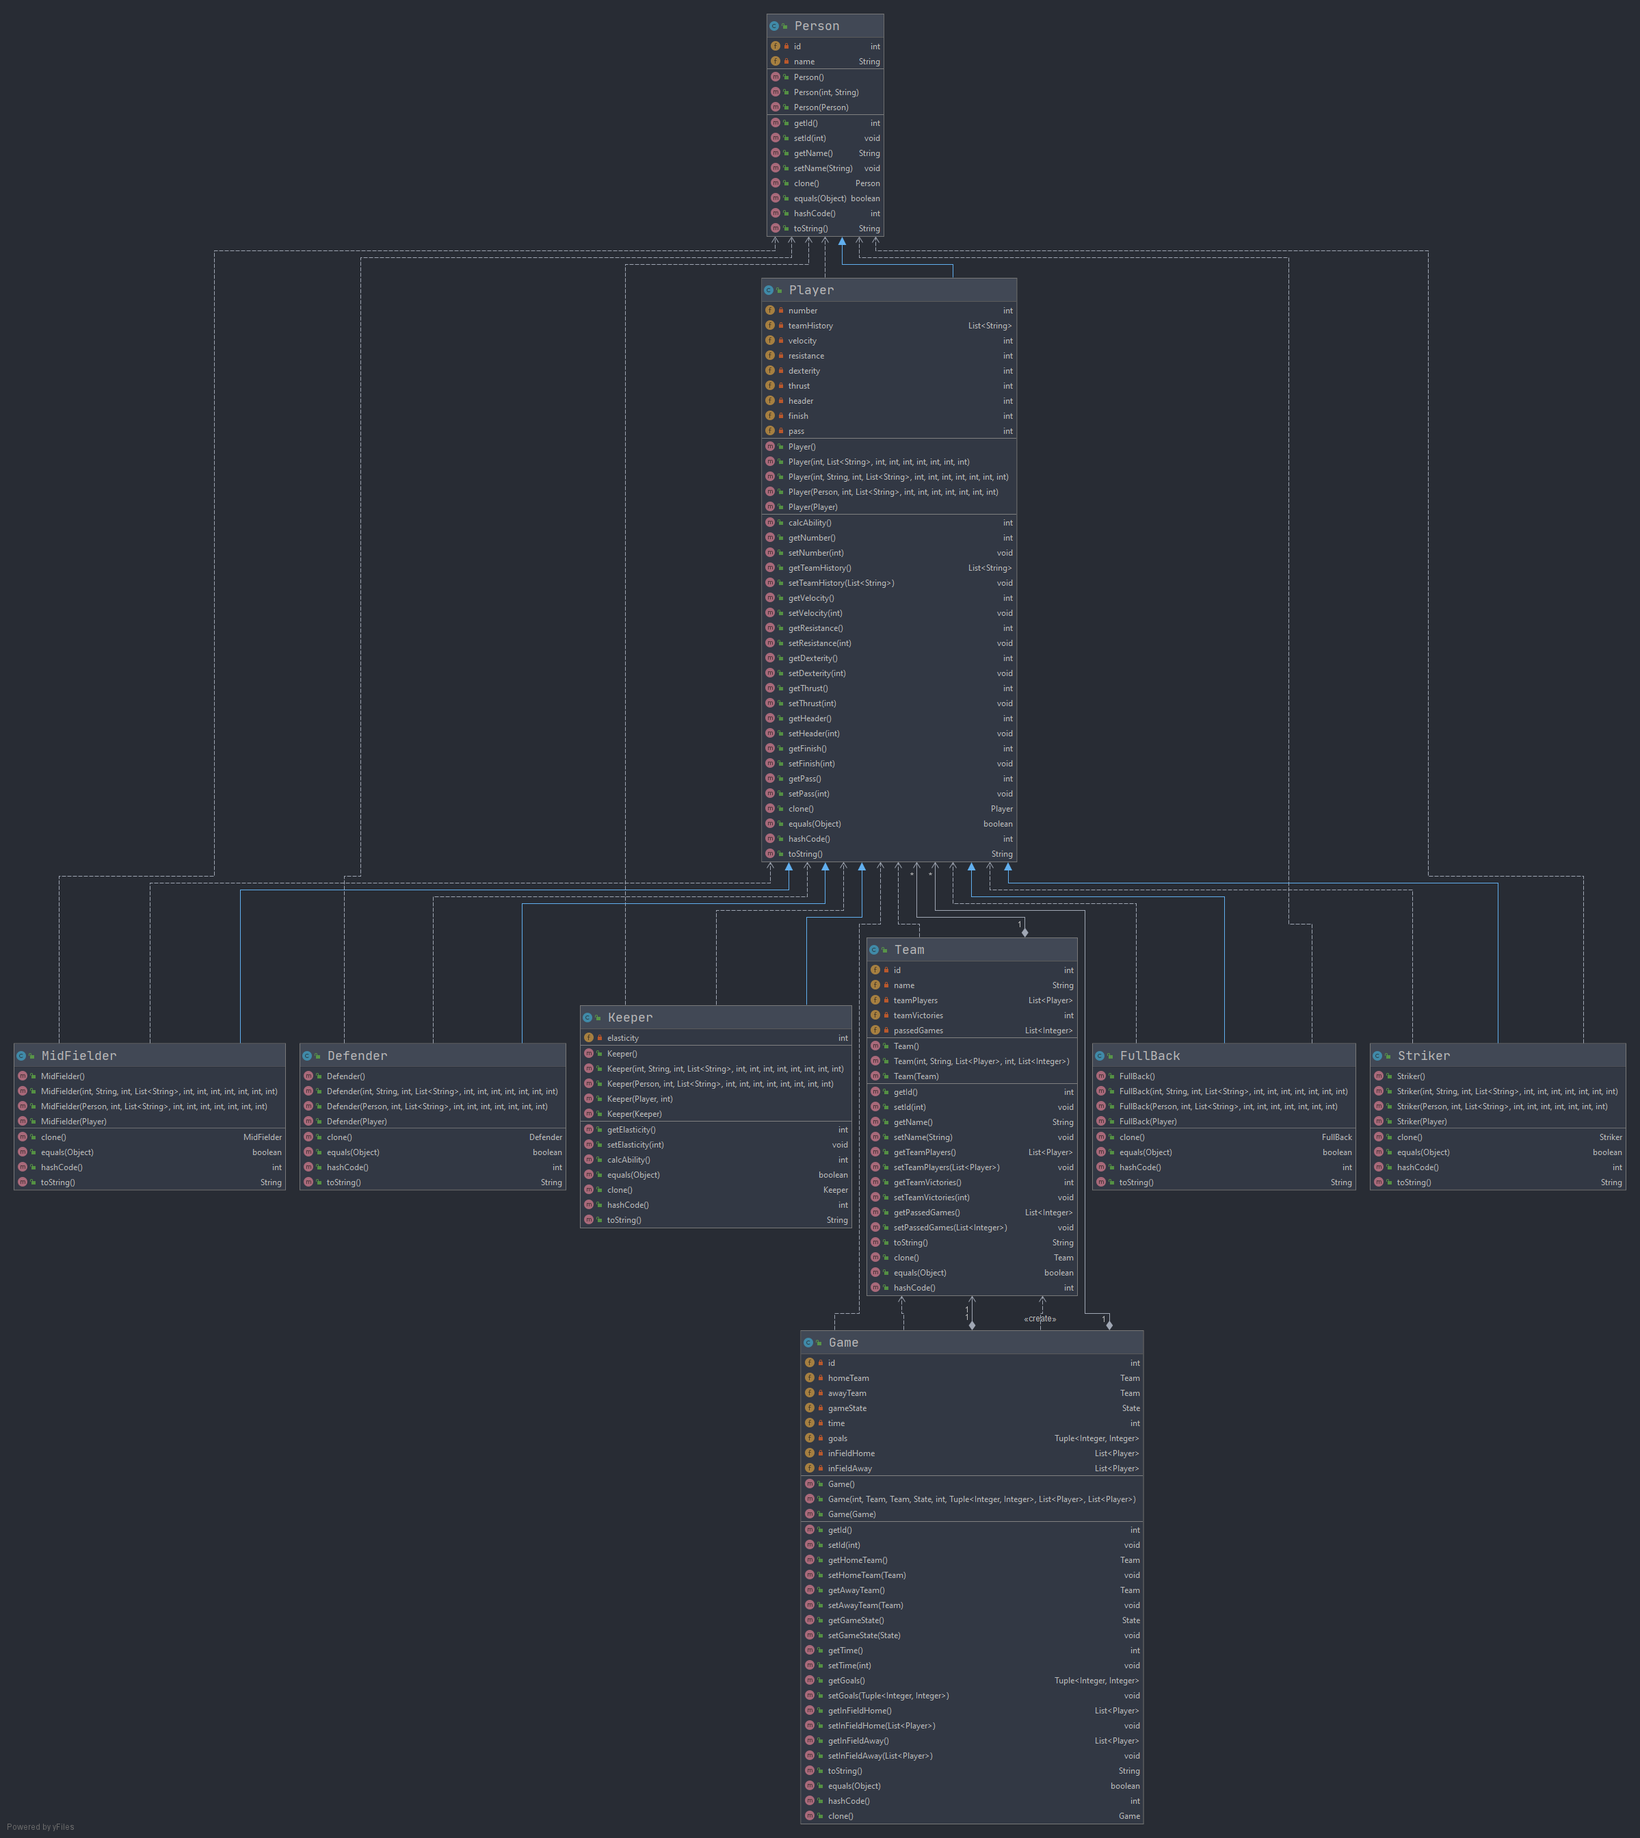
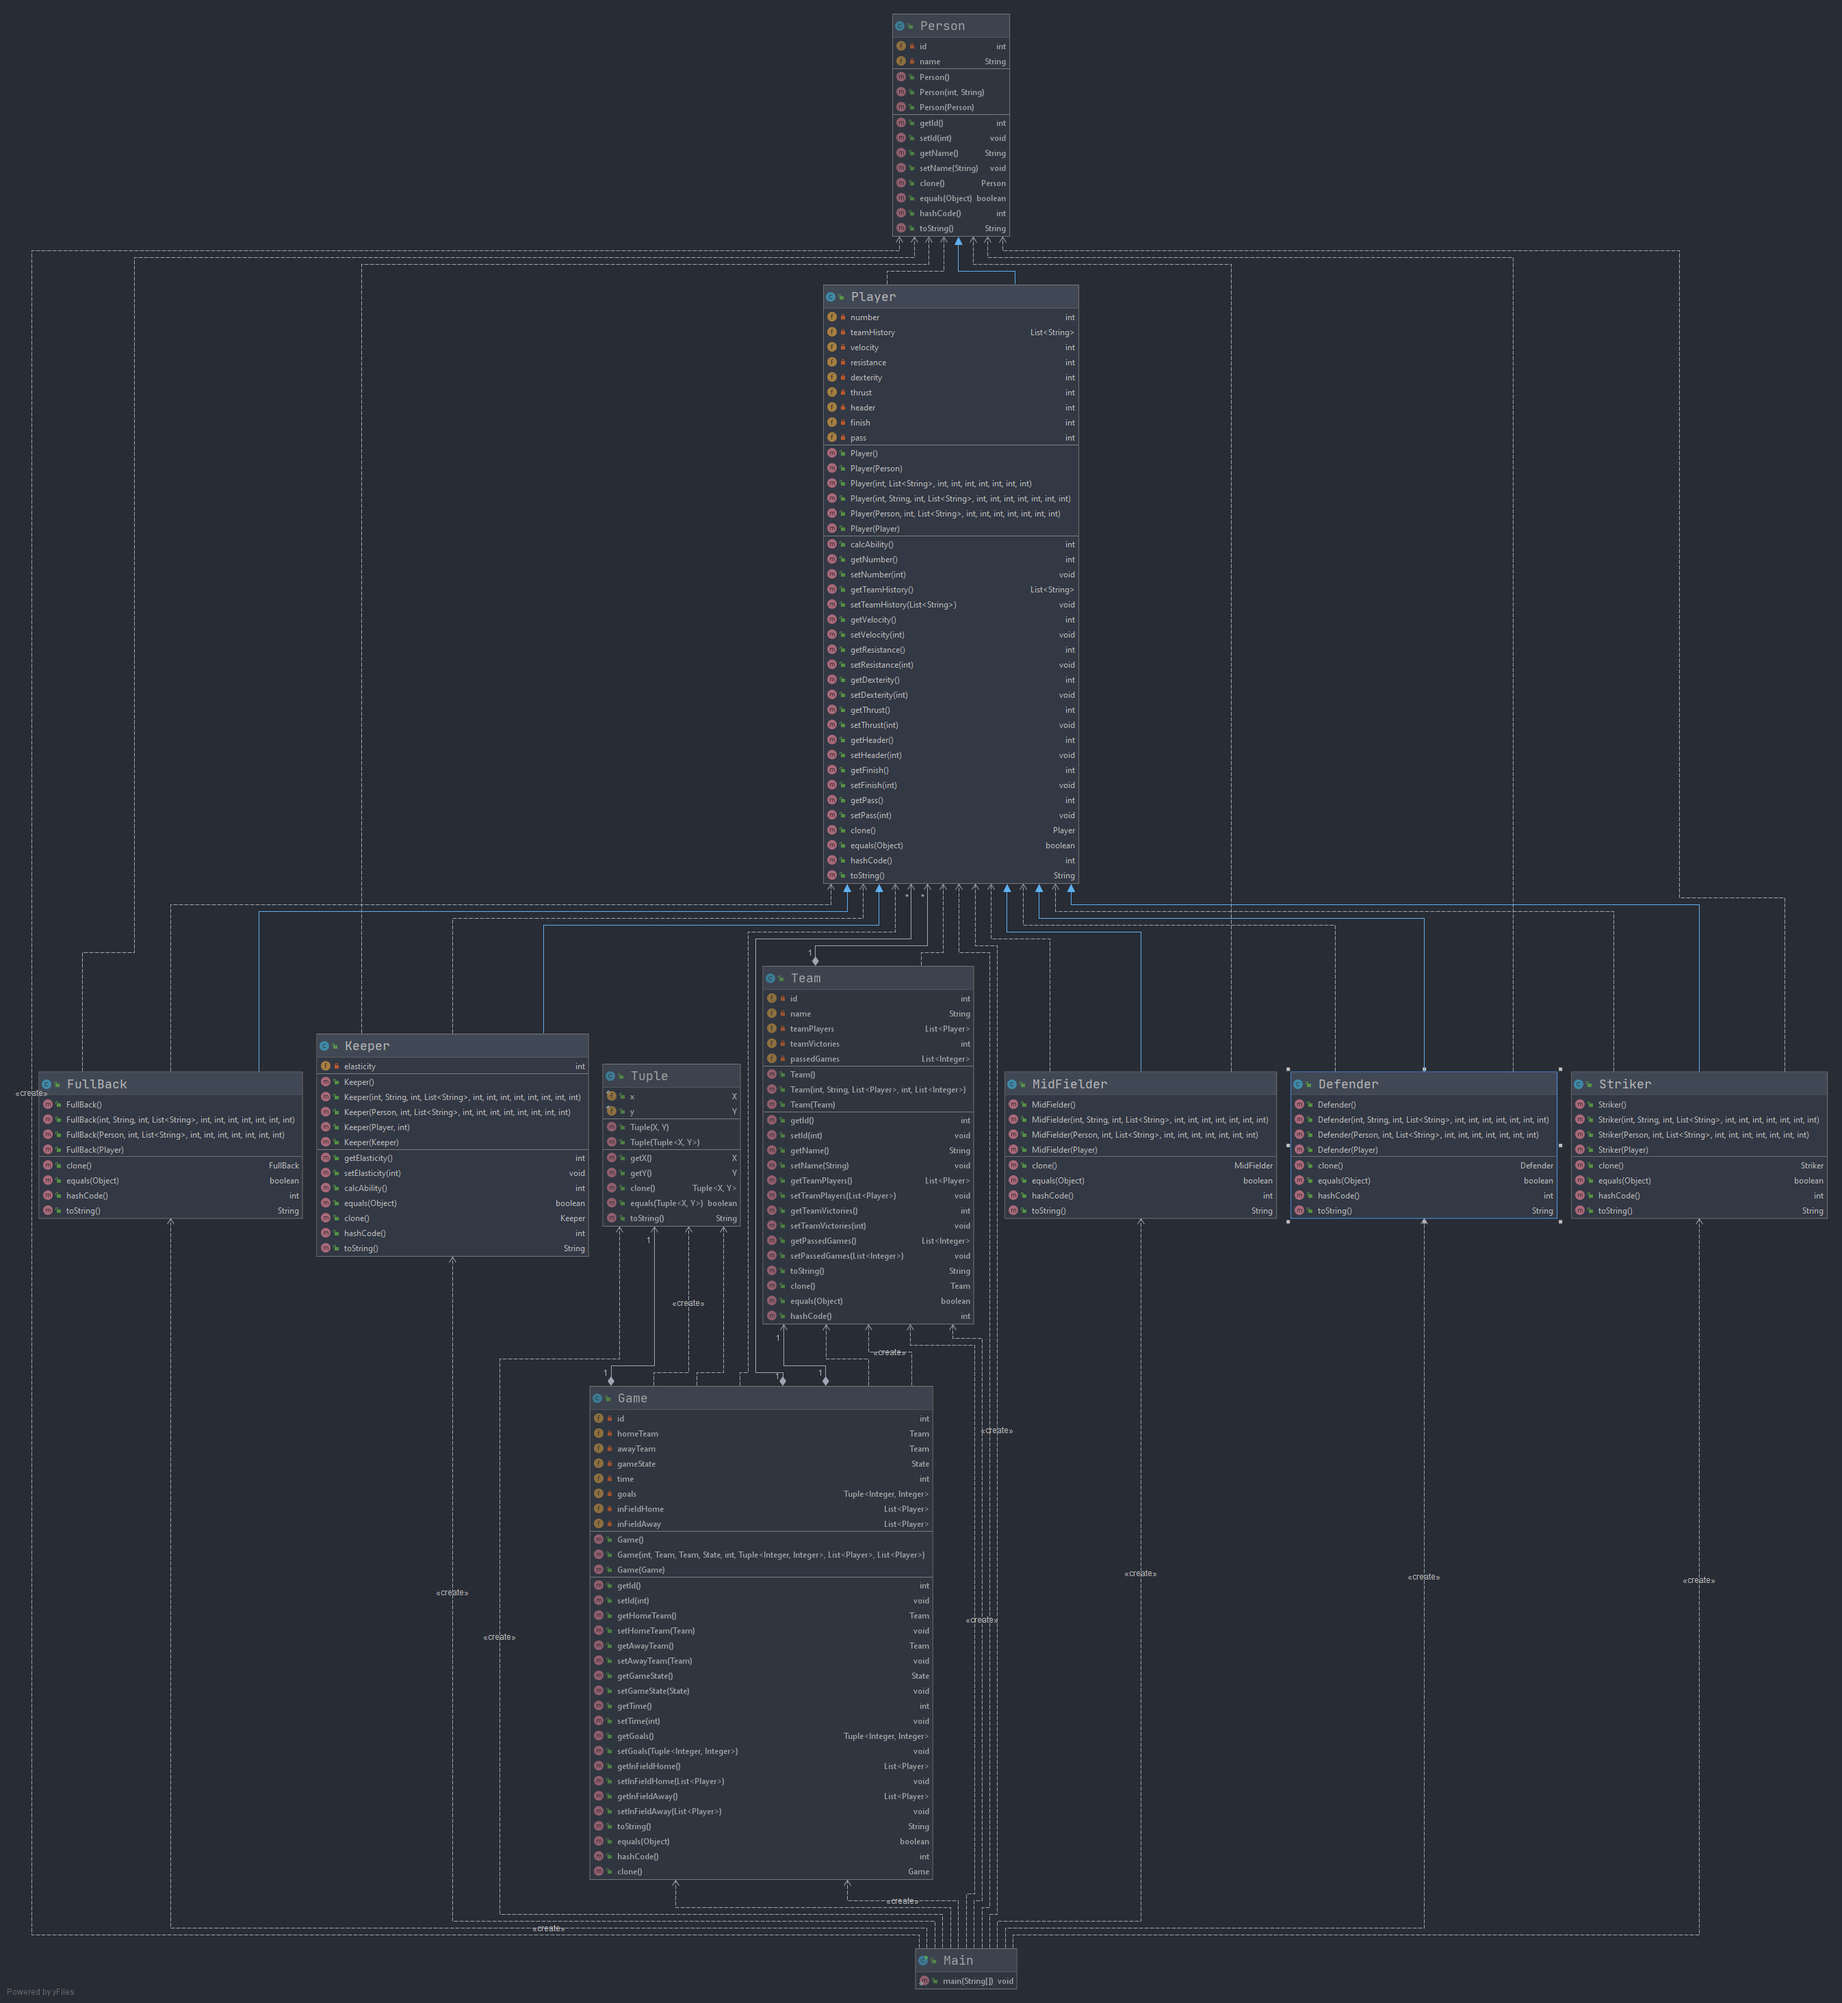
Print game

Changed region(s): [[0.0, 0.0, 1.0, 1.0], [0.6789, 0.8343, 0.7098, 0.9888], [0.0, 0.9888, 0.0309, 1.0]]

diff --git a/src/Main.java b/src/Main.java
@@ -1,14 +1,82 @@
+import objects.Game;
 import objects.Person;
-import objects.player.Keeper;
-import objects.player.Player;
+import objects.Team;
+import objects.player.*;
+import utils.Tuple;
 
 import java.util.ArrayList;
+import java.util.List;
 
 public class Main {
     public static void main(String[] args) {
-        Person person = new Person(1, "Andre");
-        Player player = new Player(person, 23, new ArrayList<>(),0,0,5,0,0,0,0);
-        Keeper keeper = new Keeper(player, 10);
-        System.out.println(keeper.toString());
+        List<Player> realMadridPlayers = new ArrayList<>();
+        realMadridPlayers.add(new Keeper(new Player(new Person()), 98));
+        realMadridPlayers.add(new Defender(new Player(new Person())));
+        realMadridPlayers.add(new MidFielder(new Player(new Person())));
+        realMadridPlayers.add(new FullBack(new Player(new Person())));
+        realMadridPlayers.add(new Striker(new Player(new Person())));
+        realMadridPlayers.add(new Defender(new Player(new Person())));
+        realMadridPlayers.add(new MidFielder(new Player(new Person())));
+        realMadridPlayers.add(new Striker(new Player(new Person())));
+        realMadridPlayers.add(new FullBack(new Player(new Person())));
+        realMadridPlayers.add(new Defender(new Player(new Person())));
+        realMadridPlayers.add(new Defender(new Player(new Person())));
+        realMadridPlayers.add(new MidFielder(new Player(new Person())));
+        realMadridPlayers.add(new Striker(new Player(new Person())));
+        realMadridPlayers.add(new MidFielder(new Player(new Person())));
+        realMadridPlayers.add(new FullBack(new Player(new Person())));
+        realMadridPlayers.add(new Defender(new Player(new Person())));
+        realMadridPlayers.add(new Keeper(new Player(new Person()), 87));
+        realMadridPlayers.add(new FullBack(new Player(new Person())));
+//        System.out.println(realMadridPlayers);
+
+        List<Player> juventusPlayers = new ArrayList<>();
+        juventusPlayers.add(new Keeper(new Player(new Person()), 97));
+        juventusPlayers.add(new Defender(new Player(new Person())));
+        juventusPlayers.add(new MidFielder(new Player(new Person())));
+        juventusPlayers.add(new Defender(new Player(new Person())));
+        juventusPlayers.add(new Defender(new Player(new Person())));
+        juventusPlayers.add(new Defender(new Player(new Person())));
+        juventusPlayers.add(new Striker(new Player(new Person())));
+        juventusPlayers.add(new MidFielder(new Player(new Person())));
+        juventusPlayers.add(new FullBack(new Player(new Person())));
+        juventusPlayers.add(new Striker(new Player(new Person())));
+        juventusPlayers.add(new FullBack(new Player(new Person())));
+        juventusPlayers.add(new Striker(new Player(new Person())));
+        juventusPlayers.add(new MidFielder(new Player(new Person())));
+        juventusPlayers.add(new MidFielder(new Player(new Person())));
+        juventusPlayers.add(new FullBack(new Player(new Person())));
+        juventusPlayers.add(new Defender(new Player(new Person())));
+        juventusPlayers.add(new Keeper(new Player(new Person()), 85));
+        juventusPlayers.add(new FullBack(new Player(new Person())));
+//        System.out.println(juventusPlayers);
+
+        Team realMadrid = new Team(
+                0,
+                "Real Madrid CF",
+                realMadridPlayers,
+                66,
+                new ArrayList<>()
+        );
+        Team juventus = new Team(
+                1,
+                "Juventus",
+                juventusPlayers,
+                66,
+                new ArrayList<>()
+        );
+
+        Game game = new Game(
+                0,
+                realMadrid,
+                juventus,
+                Game.State.ENDED,
+                93,
+                new Tuple<>(1, 1),
+                realMadridPlayers.subList(0, 11),
+                juventusPlayers.subList(0, 11)
+        );
+
+        System.out.println(game.toString());
     }
 }

diff --git a/src/objects/Game.java b/src/objects/Game.java
@@ -117,7 +117,7 @@ public class Game {
 
     public void setInFieldHome(List<Player> inFieldHome) {
         List<Player> newArr = new ArrayList<>();
-        for(Player crt : this.inFieldHome)
+        for(Player crt : inFieldHome)
             newArr.add(crt.clone());
         this.inFieldHome = newArr;
     }
@@ -131,7 +131,7 @@ public class Game {
 
     public void setInFieldAway(List<Player> inFieldAway) {
         List<Player> newArr = new ArrayList<>();
-        for(Player crt : this.inFieldAway)
+        for(Player crt : inFieldAway)
             newArr.add(crt.clone());
         this.inFieldAway = newArr;
     }
@@ -139,15 +139,15 @@ public class Game {
     @Override
     public String toString() {
         final StringBuilder sb = new StringBuilder("Game{");
-        sb.append("id=").append(id);
-        sb.append(", homeTeam=").append(homeTeam);
-        sb.append(", awayTeam=").append(awayTeam);
-        sb.append(", gameState=").append(gameState);
-        sb.append(", time=").append(time);
-        sb.append(", goals=").append(goals);
-        sb.append(", inFieldHome=").append(inFieldHome);
-        sb.append(", inFieldAway=").append(inFieldAway);
-        sb.append('}');
+        sb.append("id=").append(id).append("\n");
+        sb.append(", homeTeam=").append(homeTeam).append("\n");
+        sb.append(", awayTeam=").append(awayTeam).append("\n");
+        sb.append(", gameState=").append(gameState).append("\n");
+        sb.append(", time=").append(time).append("\n");
+        sb.append(", goals=").append(goals).append("\n");
+        sb.append(", inFieldHome=").append(inFieldHome).append("\n");
+        sb.append(", inFieldAway=").append(inFieldAway).append("\n");
+        sb.append('}').append("\n");
         return sb.toString();
     }
 

diff --git a/src/objects/player/Player.java b/src/objects/player/Player.java
@@ -31,6 +31,19 @@ public class Player extends Person {
         this.pass = 0;
     }
 
+    public Player(Person person){
+        super(person);
+        this.number = 0;
+        this.teamHistory = new ArrayList<>();
+        this.velocity = 0;
+        this.resistance = 0;
+        this.dexterity = 0;
+        this.thrust = 0;
+        this.header = 0;
+        this.finish = 0;
+        this.pass = 0;
+    }
+
     public Player(int number, List<String> teamHistory, int velocity,
                   int resistance, int dexterity, int thrust,
                   int header, int finish, int pass) {
@@ -179,14 +192,7 @@ public class Player extends Person {
 
         Player player = (Player) o;
 
-        if (getNumber() != player.getNumber()) return false;
-        if (getVelocity() != player.getVelocity()) return false;
-        if (getResistance() != player.getResistance()) return false;
-        if (getDexterity() != player.getDexterity()) return false;
-        if (getThrust() != player.getThrust()) return false;
-        if (getHeader() != player.getHeader()) return false;
-        if (getFinish() != player.getFinish()) return false;
-        if (getPass() != player.getPass()) return false;
+        if (getId() != player.getId()) return false;
         return getTeamHistory() != null ? getTeamHistory().equals(player.getTeamHistory()) : player.getTeamHistory() == null;
     }
 

diff --git a/src/utils/Tuple.java b/src/utils/Tuple.java
@@ -27,13 +27,11 @@ public class Tuple<X,Y> {
         return new Tuple<>(this);
     }
 
-    @Override
-    public boolean equals(Object o) {
+    public boolean equals(Tuple<X, Y> o) {
         if (this == o) return true;
         if (o == null || getClass() != o.getClass()) return false;
-        Tuple<?, ?> tuple = (Tuple<?, ?>) o;
-        return getX().equals(tuple.getX()) &&
-                getY().equals(tuple.getY());
+        return getX().equals(o.getX()) &&
+                getY().equals(o.getY());
     }
 
     @Override

diff --git a/src/objects/Person.java b/src/objects/Person.java
@@ -1,5 +1,7 @@
 package objects;
 
+import java.util.Objects;
+
 public class Person {
     private int id;
     private String name;
@@ -48,7 +50,7 @@ public class Person {
         Person person = (Person) o;
 
         if (id != person.id) return false;
-        return name != null ? name.equals(person.name) : person.name == null;
+        return Objects.equals(name, person.name);
     }
 
     @Override

diff --git a/src/objects/Team.java b/src/objects/Team.java
@@ -62,7 +62,7 @@ public class Team {
 
     public void setTeamPlayers(List<Player> teamPlayers) {
         List<Player> newList = new ArrayList<>();
-        for(Player crt : this.teamPlayers)
+        for(Player crt : teamPlayers)
             newList.add(crt.clone());
         this.teamPlayers = newList;
     }
